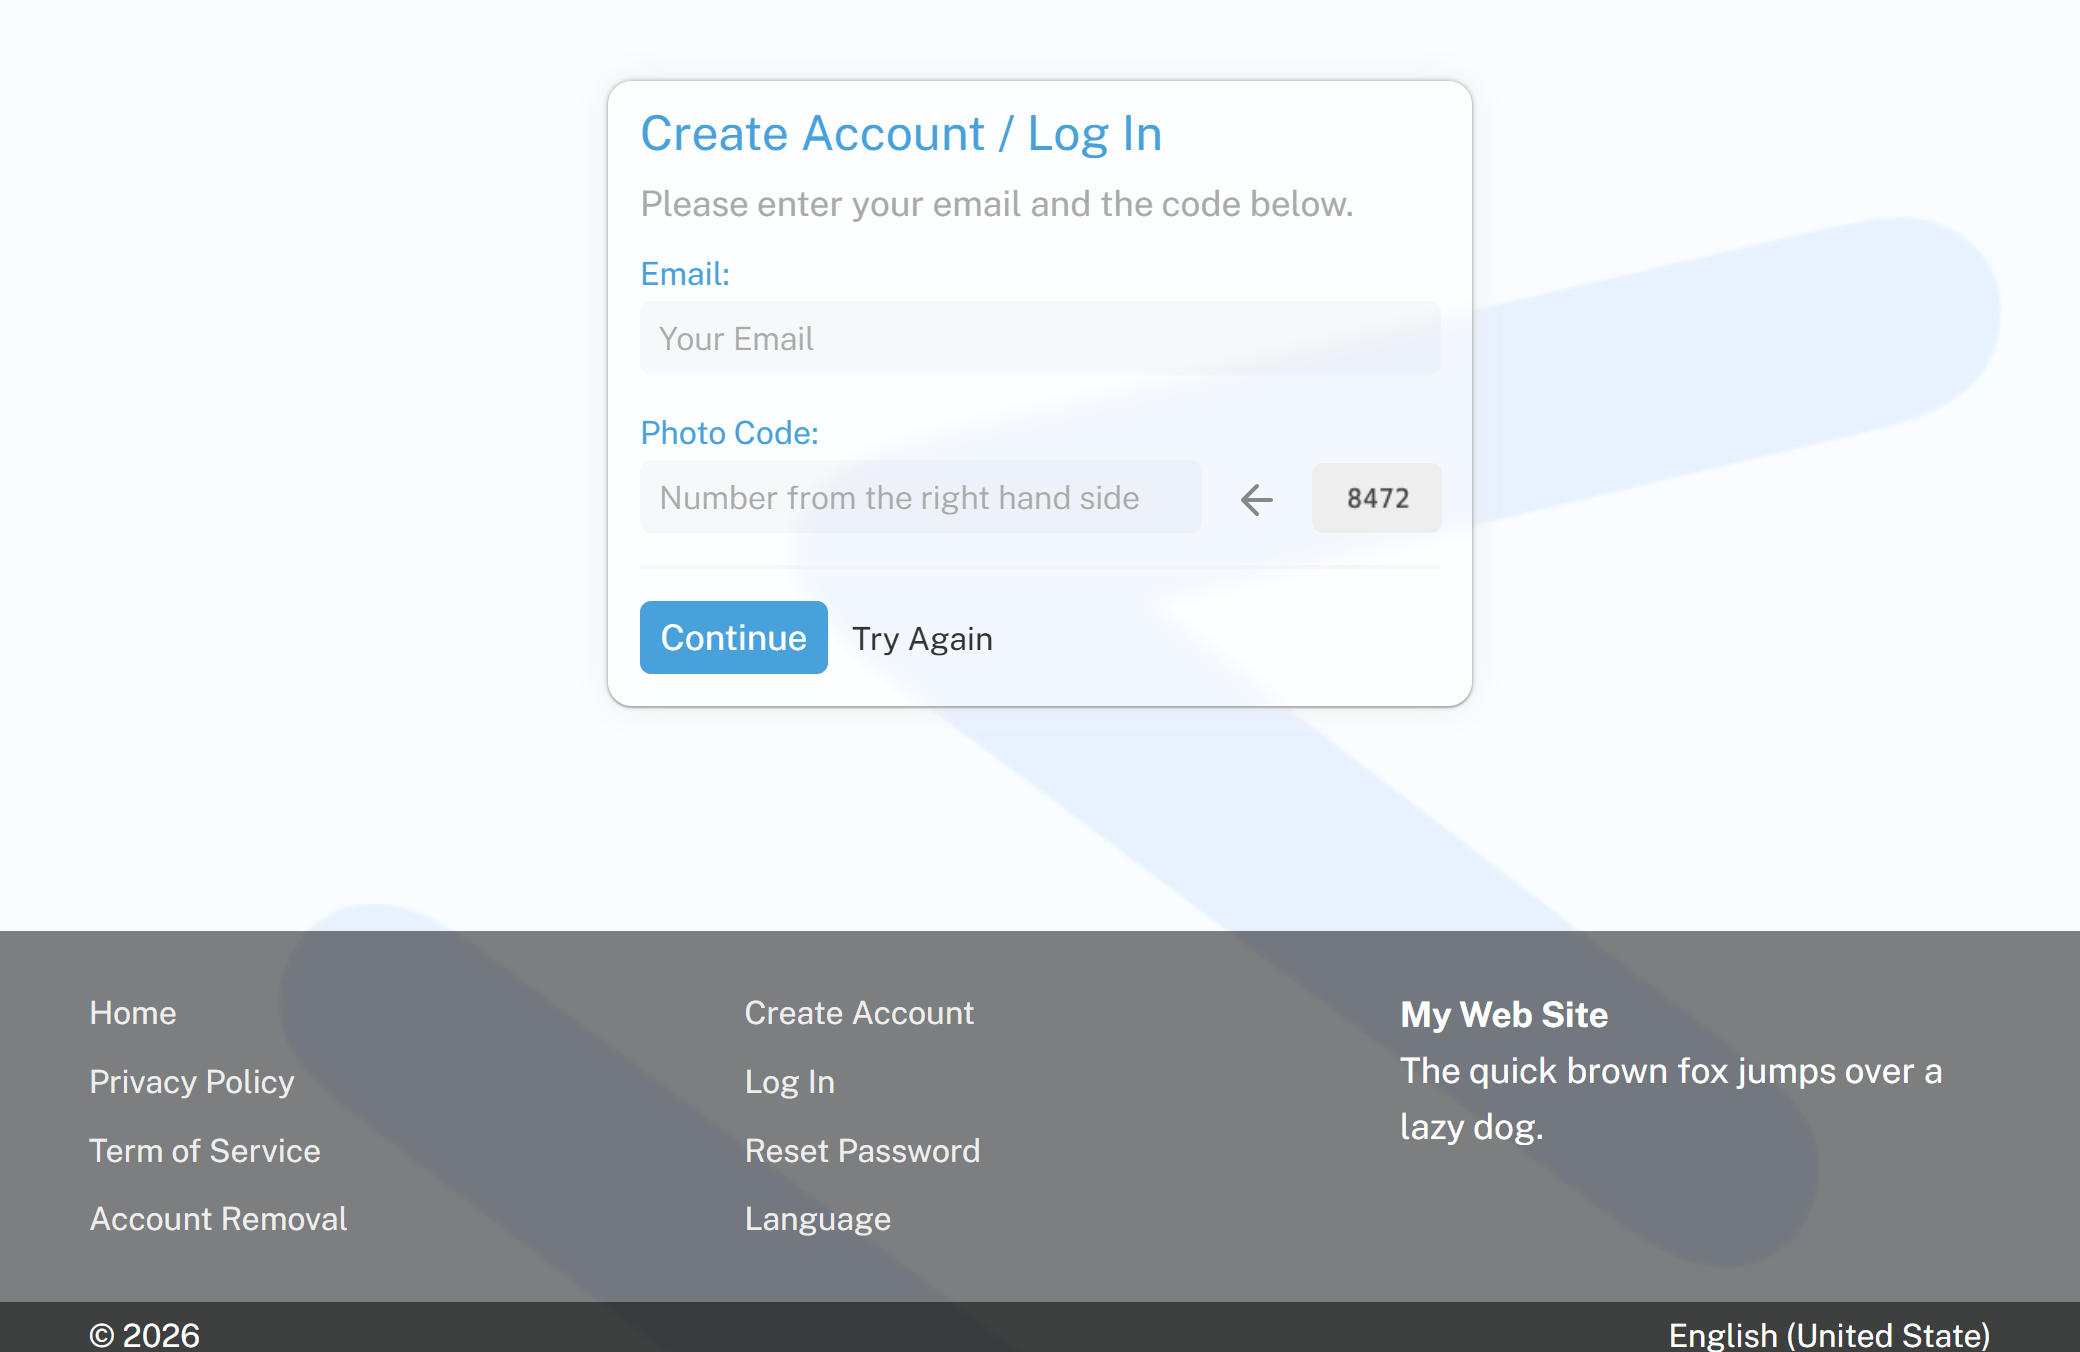
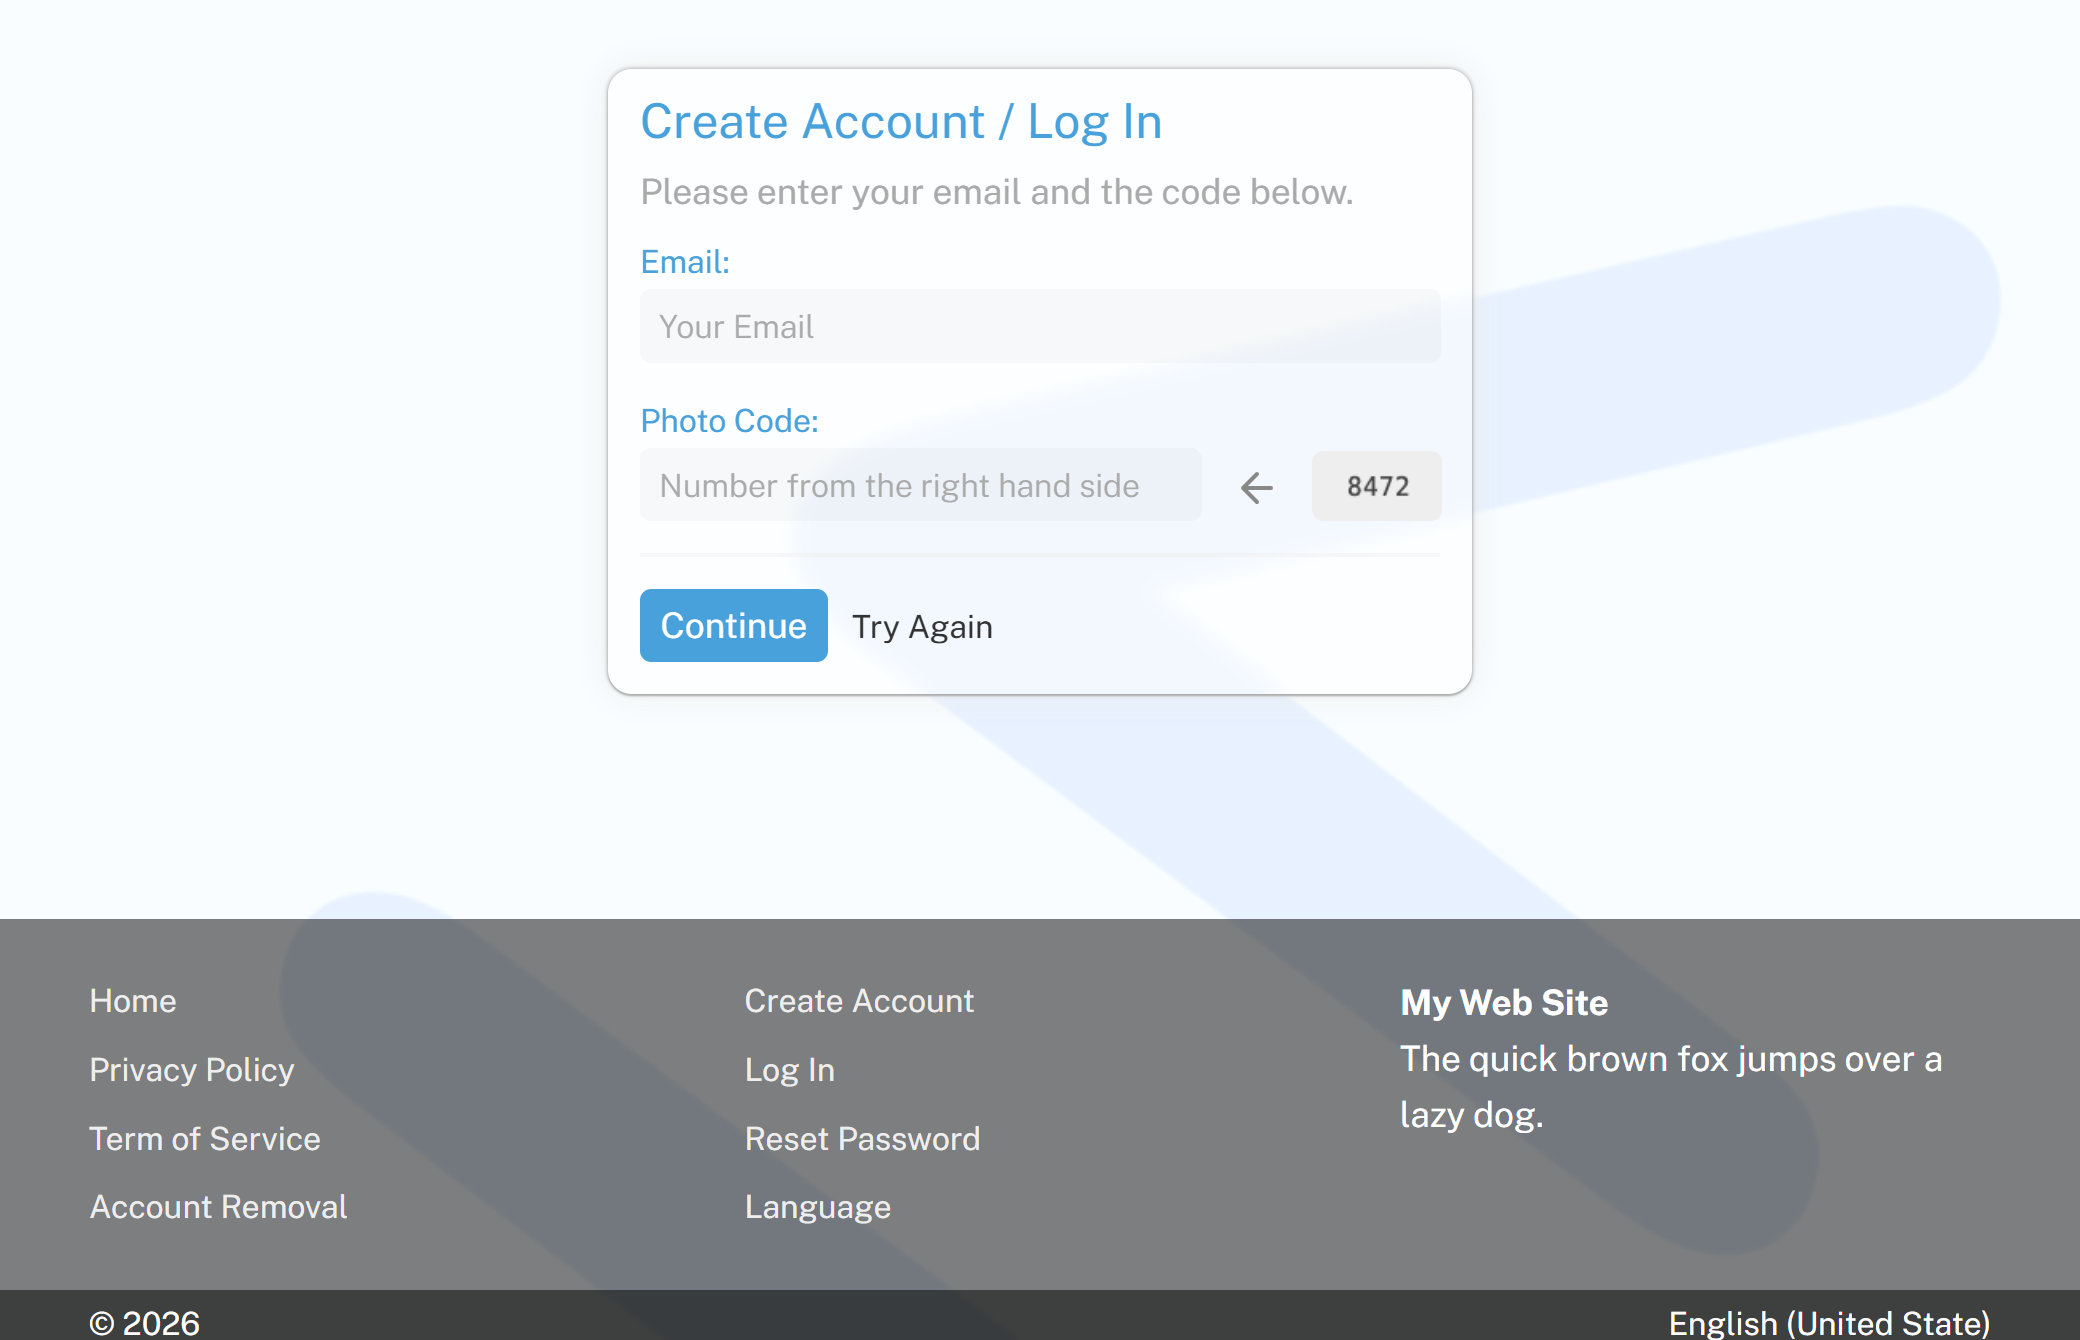
Update README.md

diff --git a/web/show-start.html b/web/show-start.html
@@ -30,53 +30,43 @@
 		<header></header>
 		
 		<main>
-			<section class="web-form">
-				<h1>Starbase</h1>
-				<p>
-					Starbase is an extensible web application.
-					It supports multiple languages such as English,
-					French, Chinese, and more.
-				</p>
-				<section class="duo">
-					<img src="/screens/sample-english.png" />
-					<img src="/screens/sample-thai.png" />
+			<section class="container">
+				<section class="web-form">
+					<h1>Starbase</h1>
+					<p>
+						Starbase is an extensible web application.
+						It supports multiple languages such as English,
+						French, Chinese, and more.
+					</p>
+					<section class="duo">
+						<img src="/screens/sample-english.png" />
+						<img src="/screens/sample-thai.png" />
+					</section>
+
+					<p>
+						The backend code written in Java, using Rockstar
+						framework. The reference web server is Bobcat,
+						which has been included in this project.
+					</p>
+
 				</section>
-				
-				<p>
-					The backend code written in Java, using Rockstar
-					framework. The reference web server is Bobcat,
-					which has been included in this project.
-				</p>
-				
-				<p>
-					The dictionary is in the table "translations",
-					as follow:
-				</p>
-				<pre>
-.---------.------------.----------------.----------------------.
-| number  | code       | language       | text                 |
-'---------'------------'----------------'----------------------'
-  1         home         en-us            Home
-  2         home         th-th            <span class="thai">หน้าแรก</span>
-  3         language     en-us            Language
-  4         language     th-th            <span class="thai">ภาษา</span>
-  .
-  .
-				</pre>
 			</section>
 			
 			<style>
 				.web-form {
-					max-width: 60%;
+					max-width: 100%;
 					padding: 3rem;
 					padding-bottom: 1rem;
 					margin-top: 6rem;
 					margin-bottom: 6rem;
+					background: white;
 				}
 				.web-form p {
 					color: #333;
 				}
 				.duo {
+					margin: 10rem auto;
+					max-width: 80%;
 					display: grid;
 					grid-template-columns: 1fr 1fr;
 					column-gap: 1rem;

diff --git a/README.md b/README.md
@@ -19,4 +19,17 @@ Then open web browser to http://localhost:7501
 
 This project supports multiple languages.
 
-![](web/screens/sample-thai.png)
+![](web/screens/cover.png)
+
+The dictionary is in the table "translations", as follow:
+```
+.---------.------------.----------------.----------------------.
+| number  | code       | language       | text                 |
+'---------'------------'----------------'----------------------'
+  1         home         en-us            Home
+  2         home         th-th            <span class="thai">หน้าแรก</span>
+  3         language     en-us            Language
+  4         language     th-th            <span class="thai">ภาษา</span>
+  .
+  .
+```
